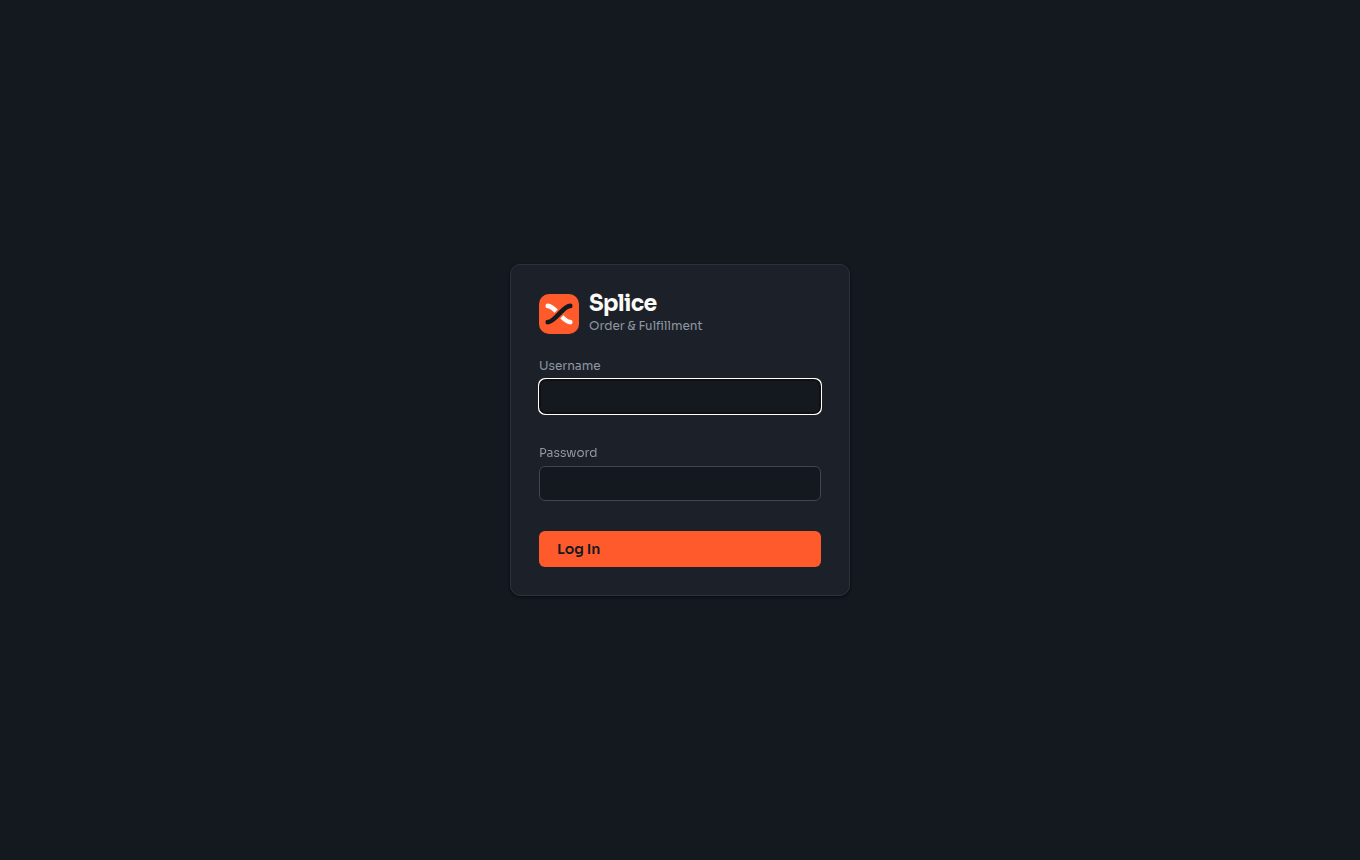
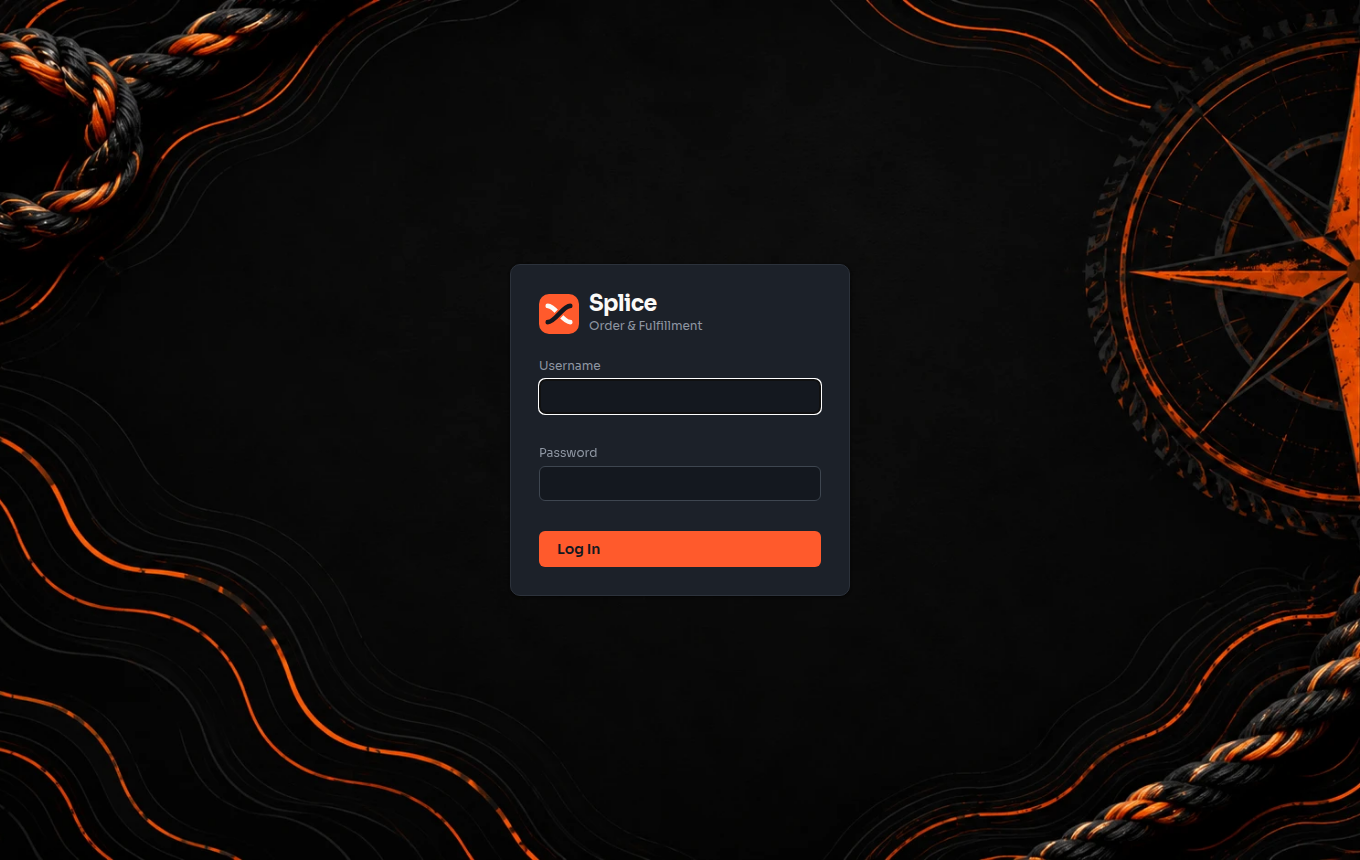
Brand artwork behind the sign-in screen
The login page sits on the rope-and-compass artwork (public/login-bg.webp),
covering the viewport, with the card lifted off it by a deeper shadow.

Claude-Session: https://claude.ai/code/session_01MpMPnmBp2Re34mF3bGfbNG

diff --git a/src/index.css b/src/index.css
@@ -2854,13 +2854,19 @@ a.dash-lookup-row:focus-visible {
   padding-top: 8px;
 }
 
+/* The sign-in screen sits on the brand artwork (rope, compass rose, waves
+   in Ink and Signal), with the card lifted off it by a deeper shadow. */
 .login-page {
   min-height: 100vh;
   display: flex;
   align-items: center;
   justify-content: center;
-  background: var(--bg);
+  background: #0d0f12 url("/login-bg.webp") center / cover no-repeat;
   padding: 20px;
+}
+
+.login-card {
+  box-shadow: rgba(0, 0, 0, 0.45) 0 12px 40px, rgba(0, 0, 0, 0.3) 0 2px 8px;
 }
 
 .login-card {
